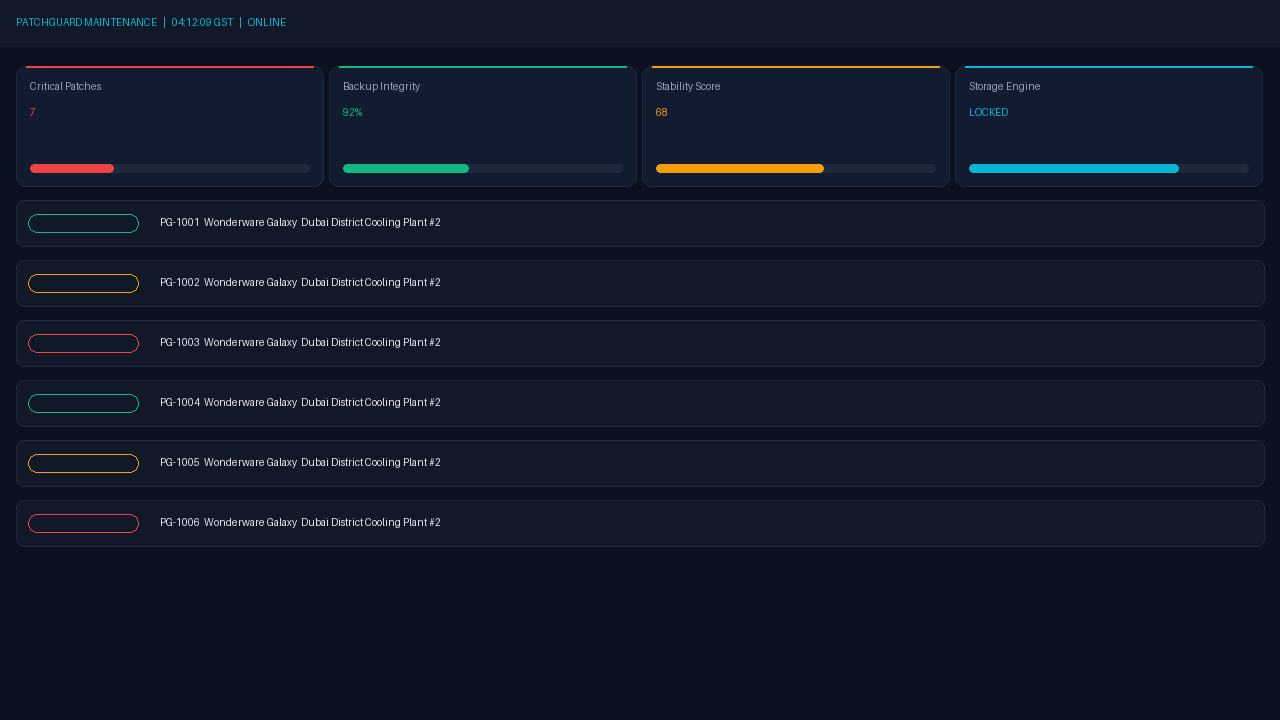
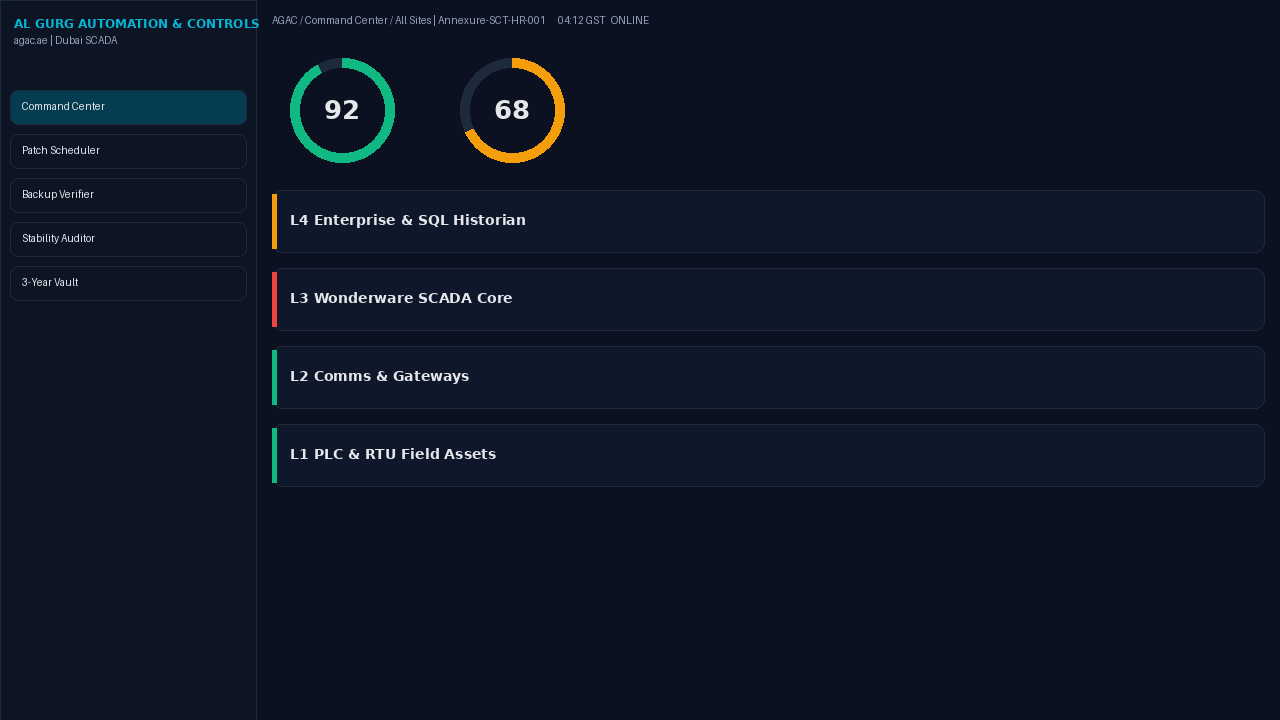
Add files via upload

diff --git a/js/app.js b/js/app.js
@@ -1,11 +1,14 @@
 const $=s=>document.querySelector(s),E=s=>String(s??'').replace(/[&<>"]/g,c=>({'&':'&amp;','<':'&lt;','>':'&gt;','"':'&quot;'}[c]));
-const TABS=[['dash','Dashboard'],['patches','Patch Scheduler'],['backups','Backup Verifier'],['audits','Stability Auditor'],['vault','Vault & Reports']];
+const TABS=[['dash','Command Center & Topology','M3 3h8v8H3zM13 3h8v5h-8zM13 11h8v10h-8zM3 13h8v8H3z'],['patches','Patch & Upgrade Scheduler','M12 2l9 4v6c0 5-4 8-9 10-5-2-9-5-9-10V6z'],['backups','Cryptographic Backup Verifier','M4 4h16v6H4zM4 14h16v6H4zM8 7h.01M8 17h.01'],['audits','SCADA, SQL & Comms Auditor','M3 12h4l3-8 4 16 3-8h4'],['vault','3-Year Vault & QHSE Reports','M5 11h14v10H5zM8 11V7a4 4 0 018 0v4']];
 const CATS=['Wonderware Galaxy','InTouch HMI','AVEVA Historian','MS SQL Server','Windows Server OS','OPC & Modbus Comms','PLC Firmware'],STAT=['Scheduled','In Progress','Completed','Rolled Back'],SEV=['Critical CVE','High','Routine Maintenance','Feature Upgrade'];
 const CHK=['Full Galaxy (.cab) & SQL (.bak) backup verified','Redundant AppEngine / Partner node failover tested','OPC/Modbus watchdog bypass notified to Control Room','Rollback media staged on Engineering Workstation','QHSE Annexure-SCT-HR-001 Risk Assessment & Client Sign-off obtained'];
 let tab=location.hash.slice(1)||'dash',F={q:'',c:'',s:'',v:''},dp;
 const today=()=>new Date().toISOString().slice(0,10),now=()=>new Date().toISOString();
 const toast=m=>{const t=$('#toast');t.textContent=m;t.style.display='block';setTimeout(()=>t.style.display='none',2500)};
-const cls=v=>/MISMATCH|CRITICAL|Rolled|Failed|Critical|Rejected/.test(v)?'cr':/OPTIMAL|Completed|Passed|Approved|MATCH|LOCKED/.test(v)&&!/UNLOCKED/.test(v)?'ok':/WARNING|Progress|Pending|Not|UNLOCKED/.test(v)?'wa':'in';
+const CR=['MISMATCH','Failed','CRITICAL','Critical CVE','Rolled Back','Rejected'],OK=['MATCH','OPTIMAL','Completed','Passed','Approved','LOCKED'],WA=['Pending','In Progress','WARNING','UNLOCKED','Not Tested'];
+const cls=v=>CR.includes(v)?'cr':OK.includes(v)?'ok':WA.includes(v)?'wa':'in';
+let SITE='';const siteOk=s=>!SITE||s==SITE,LAY={L4:['Enterprise & SQL Historian',['AVEVA Historian','MS SQL Server'],'Historian SQL 2019 CU22 | TempDB & Store-and-Forward Queue'],L3:['Wonderware SCADA Core',['Wonderware Galaxy','InTouch HMI'],'Galaxy GR Node | Redundant AppEngine Pair | InTouch Terminal Server'],L2:['Industrial Comms & Gateways',['OPC & Modbus Comms','Windows Server OS'],'OI Server / OPC DA-UA | Modbus TCP Driver | DCOM & Firewall DMZ'],L1:['PLC & RTU Field Assets',['PLC Firmware'],'Siemens S7-1500 | Allen-Bradley ControlLogix | IEC 61850 IEDs']};
+const donut=(p,c,l)=>`<svg viewBox="0 0 80 80" width="96" height="96"><circle cx="40" cy="40" r="32" fill="none" stroke="#1e293b" stroke-width="8"/><circle class="${c}" cx="40" cy="40" r="32" fill="none" stroke-width="8" stroke-linecap="round" stroke-dasharray="${2.0106*p} 201" transform="rotate(-90 40 40)"/><text x="40" y="45" text-anchor="middle" fill="#e5e7eb" font-family="monospace" font-size="16" font-weight="700">${p}</text></svg><span class="lb">${l}</span>`;
 const meter=(p,c)=>`<i class="m"><u class="${c}" style="width:${Math.min(100,p)}%"></u></i>`,lv=p=>p>85?'cr':p>=70?'wa':'ok',gate=p=>{const n=(p.preCheckItems||[]).filter(Boolean).length;return`<span class="b ${n==5?'ok':n>=3?'wa':'cr'}">${n}/5 Gates${n==5?' Passed':''}</span>`};
 const bd=v=>`<span class="b ${cls(v)}">${E(v)}</span>`;
 function dl(name,text,type){const a=document.createElement('a');a.href=URL.createObjectURL(new Blob([text],{type}));a.download=name;a.click()}
@@ -15,8 +18,12 @@ m.innerHTML=`<form><h3>${title}</h3>${fields.map(([n,l,t,o])=>`<label>${l}</labe
 document.body.append(m);m.querySelector('#cx').onclick=()=>m.remove();
 m.querySelector('form').onsubmit=async e=>{e.preventDefault();const f=e.target,o={};fields.forEach(([n,,t])=>{const x=f.elements[n];o[n]=t=='check'?x.checked:t=='number'?+x.value:x.value});o._chk=[...f.querySelectorAll('.pc')].map(x=>x.checked);await save(o);m.remove();render()}}
 const sel=(id,arr,v,l)=>`<select id="${id}"><option value="">${l}</option>${arr.map(x=>`<option ${v==x?'selected':''}>${x}</option>`).join('')}</select>`;
-async function render(){location.hash=tab;$('#nav').innerHTML=TABS.map(([k,l])=>`<button class="${k==tab?'on':''}" data-t="${k}">${l}</button>`).join('');
-$('#nav').onclick=e=>{if(e.target.dataset.t){tab=e.target.dataset.t;render()}};await VIEWS[tab]($('#main'))}
+async function render(){location.hash=tab;const P=await PG.all('patch_schedules'),B=await PG.all('backup_verifications'),A=await PG.all('stability_audits'),q=await PG.quota();
+const pend=P.filter(p=>['Scheduled','In Progress'].includes(p.status)).length,bad=B.filter(b=>!b.hashMatch).length,wh=A.some(x=>x.overallHealth=='CRITICAL')?'CRITICAL':A.some(x=>x.overallHealth=='WARNING')?'WARNING':'OPTIMAL';
+const bg={patches:pend,backups:bad?bad+' !':'OK',audits:wh,vault:q.persisted?'LOCKED':'OPEN'};
+$('#nav').innerHTML=TABS.map(([k,l,i])=>`<button class="${k==tab?'on':''}" data-t="${k}"><svg viewBox="0 0 24 24" width="18" height="18" fill="none" stroke="currentColor" stroke-width="2"><path d="${i}"/></svg><span>${l}</span>${bg[k]!==undefined?`<em class="${k=='backups'&&bad||wh=='CRITICAL'&&k=='audits'?'cr':'in'}">${bg[k]}</em>`:''}</button>`).join('');
+$('#crumb').textContent='AGAC / '+TABS.find(t=>t[0]==tab)[1]+' / '+(SITE||'All Sites')+'  | Annexure-SCT-HR-001';
+$('#nav').onclick=e=>{const b=e.target.closest('button');if(b){tab=b.dataset.t;render()}};await VIEWS[tab]($('#main'))}
 const VIEWS={
 async dash(el){const P=await PG.all('patch_schedules'),B=await PG.all('backup_verifications'),A=await PG.all('stability_audits'),q=await PG.quota();
 const crit=P.filter(p=>['Critical CVE','High'].includes(p.cveSeverity)&&['Scheduled','In Progress'].includes(p.status)).length;
@@ -24,26 +31,27 @@ const rec=B.filter(b=>(new Date()-new Date(b.verifiedDate))<2592e6),rate=rec.len
 const sc=A.length?Math.round(A.map(a=>({OPTIMAL:100,WARNING:60,CRITICAL:20}[a.overallHealth])).reduce((a,b)=>a+b)/A.length):0;
 const up=P.filter(p=>p.status=='Scheduled'&&(new Date(p.scheduledDate)-new Date())<2592e6&&new Date(p.scheduledDate)>=new Date(today())).sort((a,b)=>a.scheduledDate>b.scheduledDate?1:-1);
 el.innerHTML=`<div class="bar"><button class="p" data-a="p">+ Schedule Patch Window</button><button data-a="b">+ Verify Backup Checksum</button><button data-a="a">+ Run Routine Health Audit</button><button data-a="r">Generate QHSE Compliance Report</button></div>
-<div class="grid"><div class="card kpi">Pending Critical/High Patches<b class="cr">${crit}</b></div><div class="card kpi">Backup Integrity (30d)<b class="${rate>=80?'ok':'wa'}">${rate}%</b></div><div class="card kpi">SCADA Stability Score<b class="${sc>=80?'ok':sc>=50?'wa':'cr'}">${sc}</b></div><div class="card kpi">Storage Engine<b class="${q.persisted?'ok':'wa'}">${q.persisted?'LOCKED':'UNLOCKED'}</b>~${q.years3.toLocaleString()} records runway</div></div>
+<div class="grid"><div class="card kpi ring">${donut(rate,rate>=80?'ok':'wa','Backup Integrity (30d %)')}</div><div class="card kpi ring">${donut(sc,sc>=80?'ok':sc>=50?'wa':'cr','SCADA Stability Score')}</div><div class="card kpi"><span class="lb">Pending Critical / High Patches</span><b class="cr">${crit}</b>${meter(crit*10,'cr')}</div><div class="card kpi"><span class="lb">Storage Engine</span><b class="${q.persisted?'ok':'wa'}">${q.persisted?'LOCKED':'UNLOCKED'}</b>${meter(Math.max(q.pct,1),'in')}<span class="lb">~${q.years3.toLocaleString()} records runway</span></div></div>
+<div class="card"><h3>AGAC SCADA Architecture & Node Health - click a layer to filter patches</h3><div class="topo">${Object.entries(LAY).map(([k,l])=>{const n=P.filter(p=>l[1].includes(p.assetType)&&siteOk(p.siteName)&&['Critical CVE','High'].includes(p.cveSeverity)&&['Scheduled','In Progress'].includes(p.status)).length;return`<div class="lay ${n>1?'cr':n?'wa':'ok'}" data-l="${k}"><b>${k} - ${l[0]}</b><span class="lb">${l[2]}</span>${bd(n>1?'CRITICAL':n?'WARNING':'OPTIMAL')} <span class="lb">${n} pending critical/high</span></div>`}).join('')}</div></div>
 <div class="card"><h3>Upcoming Windows (30 days)</h3>${up.map(p=>{const d=Math.ceil((new Date(p.scheduledDate)-new Date(today()))/864e5);return`<p>${bd('T-'+d+'d')} <b>${E(p.ticketRef)}</b> ${E(p.siteName)} - ${E(p.targetSystem)} (${p.scheduledDate}) PTW: ${bd(p.qhsePermit)}</p>`}).join('')||'<p>No windows in next 30 days.</p>'}</div>`;
-el.onclick=e=>{const a=e.target.dataset.a;if(a=='p')patchForm();if(a=='b'){tab='backups';render()}if(a=='a')auditForm();if(a=='r')printReport()}},
-async patches(el){const P=(await PG.all('patch_schedules')).sort((a,b)=>a.scheduledDate<b.scheduledDate?1:-1).filter(p=>(!F.c||p.assetType==F.c)&&(!F.s||p.status==F.s)&&(!F.v||p.cveSeverity==F.v)&&JSON.stringify(p).toLowerCase().includes(F.q.toLowerCase()));
-el.innerHTML=`<div class="bar"><input id="q" placeholder="Search..." value="${E(F.q)}">${sel('fc',CATS,F.c,'All assets')}${sel('fs',STAT,F.s,'All status')}${sel('fv',SEV,F.v,'All severity')}<button class="p" id="add">+ New Patch</button></div><div class="tw"><table><tr><th>Ticket</th><th>Site</th><th>System</th><th>Version</th><th>Severity</th><th>Date</th><th>Status</th><th>PTW</th><th>Gates</th><th></th></tr>${P.map(p=>`<tr><td>${E(p.ticketRef)}</td><td>${E(p.siteName)}</td><td>${E(p.targetSystem)}</td><td class="mono">${E(p.currentVersion)}&rarr;${E(p.targetVersion)}</td><td>${bd(p.cveSeverity)}</td><td>${p.scheduledDate}</td><td>${bd(p.status)}</td><td>${bd(p.qhsePermit)}</td><td>${gate(p)}</td><td class="act"><button data-n="${p.id}">Advance</button> ${p.status=='In Progress'?`<button class="d" data-rb="${p.id}">Rollback</button>`:''} <button data-e="${p.id}">Edit</button> <button class="d" data-d="${p.id}">Del</button></td></tr>`).join('')}</table></div>`;
-$('#q').oninput=e=>{F.q=e.target.value;render().then(()=>{const i=$('#q');i.focus();i.setSelectionRange(99,99)})};$('#fc').onchange=e=>{F.c=e.target.value;render()};$('#fs').onchange=e=>{F.s=e.target.value;render()};$('#fv').onchange=e=>{F.v=e.target.value;render()};$('#add').onclick=()=>patchForm();
+el.onclick=e=>{const ly=e.target.closest('[data-l]');if(ly){F.layer=ly.dataset.l;tab='patches';return render()}const a=e.target.dataset.a;if(a=='p')patchForm();if(a=='b'){tab='backups';render()}if(a=='a')auditForm();if(a=='r')printReport()}},
+async patches(el){const P=(await PG.all('patch_schedules')).sort((a,b)=>a.scheduledDate<b.scheduledDate?1:-1).filter(p=>siteOk(p.siteName)&&(!F.layer||LAY[F.layer][1].includes(p.assetType))&&(!F.c||p.assetType==F.c)&&(!F.s||p.status==F.s)&&(!F.v||p.cveSeverity==F.v)&&JSON.stringify(p).toLowerCase().includes(F.q.toLowerCase()));
+el.innerHTML=`<div class="bar"><input id="q" placeholder="Search..." value="${E(F.q)}">${sel('fc',CATS,F.c,'All assets')}${sel('fs',STAT,F.s,'All status')}${sel('fv',SEV,F.v,'All severity')}<button class="p" id="add">+ New Patch</button>${F.layer?`<button id="cl">Layer ${F.layer} &#10005;</button>`:''}</div><div class="tw"><table><tr><th>Ticket</th><th>Site</th><th>System</th><th>Version</th><th>Severity</th><th>Date</th><th>Status</th><th>PTW</th><th>Gates</th><th></th></tr>${P.map(p=>`<tr><td>${E(p.ticketRef)}</td><td>${E(p.siteName)}</td><td>${E(p.targetSystem)}</td><td class="mono">${E(p.currentVersion)}&rarr;${E(p.targetVersion)}</td><td>${bd(p.cveSeverity)}</td><td>${p.scheduledDate}</td><td>${bd(p.status)}</td><td>${bd(p.qhsePermit)}</td><td>${gate(p)}</td><td class="act"><button data-n="${p.id}">Advance</button> ${p.status=='In Progress'?`<button class="d" data-rb="${p.id}">Rollback</button>`:''} <button data-e="${p.id}">Edit</button> <button class="d" data-d="${p.id}">Del</button></td></tr>`).join('')}</table></div>`;
+$('#q').oninput=e=>{F.q=e.target.value;render().then(()=>{const i=$('#q');i.focus();i.setSelectionRange(99,99)})};$('#fc').onchange=e=>{F.c=e.target.value;render()};$('#fs').onchange=e=>{F.s=e.target.value;render()};$('#fv').onchange=e=>{F.v=e.target.value;render()};$('#add').onclick=()=>patchForm();if($('#cl'))$('#cl').onclick=()=>{F.layer='';render()};
 el.onclick=async e=>{const d=e.target.dataset,all=await PG.all('patch_schedules'),g=i=>all.find(x=>x.id==i);
 if(d.e)patchForm(g(d.e));if(d.d&&confirm('Delete?')){await PG.del('patch_schedules',d.d);render()}
 if(d.n){const p=g(d.n);if(p.status=='Scheduled'){if(p.preCheckItems.filter(Boolean).length<5&&!confirm('Safety gate checklist incomplete. Proceed anyway?'))return;p.status='In Progress';p.startedAt=now()}else if(p.status=='In Progress'){p.status='Completed';p.completedAt=now()}else return;p.updatedAt=now();await PG.put('patch_schedules',p);toast('Status: '+p.status);render()}
 if(d.rb){const p=g(d.rb);p.status='Rolled Back';p.rolledBackAt=now();p.updatedAt=now();await PG.put('patch_schedules',p);render()}}},
-async backups(el){const B=(await PG.all('backup_verifications')).sort((a,b)=>a.verifiedDate<b.verifiedDate?1:-1);
-el.innerHTML=`<div class="card"><h3>Local SHA-256 Calculator (processed in-browser, nothing uploaded)</h3><div class="drop" id="drop"><div>&#8682; Drag & drop backup file here</div><label class="fb">Browse Files<input type="file" id="fi" hidden></label></div><label>Expected baseline SHA-256</label><input id="exp" style="width:100%" class="mono"><div id="res" class="mono"></div></div><div class="bar"><button class="p" id="add">+ Log Backup Verification</button></div><div class="tw"><table><tr><th>Ref</th><th>Site</th><th>Type</th><th>File</th><th>Hash</th><th>Test Restore</th><th>RTO</th><th>Date</th><th>Expires</th><th></th></tr>${B.map(b=>`<tr><td>${E(b.backupRef)}</td><td>${E(b.siteName)}</td><td>${E(b.artifactType)}</td><td>${E(b.fileName)}</td><td>${bd(b.hashMatch?'MATCH':'MISMATCH')}</td><td>${bd(b.testRestoreStatus)}</td><td>${b.rtoMinutes}m</td><td>${b.verifiedDate}</td><td>${b.retentionExpiryDate}</td><td><button class="d" data-d="${b.id}">Del</button></td></tr>`).join('')}</table></div>`;
+async backups(el){const B=(await PG.all('backup_verifications')).filter(x=>siteOk(x.siteName)).sort((a,b)=>a.verifiedDate<b.verifiedDate?1:-1);
+el.innerHTML=`<div class="card"><h3>Local SHA-256 Calculator (processed in-browser, nothing uploaded)</h3><div class="drop" id="drop"><div>&#8682; Drop Wonderware .cab, .aaPKG, SQL .bak, or PLC .zap16/.ACD file here</div><label class="fb">Select Local Artifact for SHA-256 Verification<input type="file" id="fi" hidden></label> <button id="smp" class="sm">Generate Sample .cab Test Artifact</button></div><div class="bar"><button class="p" id="add">+ Log Backup Verification</button></div><div class="tw"><table><tr><th>Ref</th><th>Site</th><th>Type</th><th>File</th><th>Hash</th><th>Test Restore</th><th>RTO</th><th>Date</th><th>Expires</th><th></th></tr>${B.map(b=>`<tr><td>${E(b.backupRef)}</td><td>${E(b.siteName)}</td><td>${E(b.artifactType)}</td><td>${E(b.fileName)}</td><td>${bd(b.hashMatch?'MATCH':'MISMATCH')}</td><td>${bd(b.testRestoreStatus)}</td><td>${b.rtoMinutes}m</td><td>${b.verifiedDate}</td><td>${b.retentionExpiryDate}</td><td><button class="d" data-d="${b.id}">Del</button></td></tr>`).join('')}</table></div>`;
 async function hashFile(f){$('#res').textContent='Hashing '+f.name+'...';const h=await PG.sha256(await f.arrayBuffer()),x=$('#exp').value.trim().toLowerCase(),m=x?h==x:null;window._last={f,h,m};$('#res').innerHTML=`${E(f.name)} | ${(f.size/1048576).toFixed(2)} MB | ${new Date(f.lastModified).toISOString()}<br>SHA-256: ${h}<br>${m===null?'Enter a baseline to compare.':m?'<b class="ok">MATCH VERIFIED</b>':'<b class="cr">CORRUPTION / MISMATCH DETECTED</b>'}<br><button id="lg">Log this result</button>`;$('#lg').onclick=()=>backupForm(window._last)}
-$('#fi').onchange=e=>e.target.files[0]&&hashFile(e.target.files[0]);const dr=$('#drop');dr.ondragover=e=>e.preventDefault();dr.ondrop=e=>{e.preventDefault();hashFile(e.dataTransfer.files[0])};
+$('#smp').onclick=async()=>{const by=new Uint8Array(262144);for(let i=0;i<by.length;i++)by[i]=(i*31+7)%251;const f=new File([by],'SAMPLE_Galaxy.cab');$('#exp').value=await PG.sha256(by.buffer);hashFile(f)};$('#fi').onchange=e=>e.target.files[0]&&hashFile(e.target.files[0]);const dr=$('#drop');dr.ondragover=e=>e.preventDefault();dr.ondrop=e=>{e.preventDefault();hashFile(e.dataTransfer.files[0])};
 $('#add').onclick=()=>backupForm();el.onclick=async e=>{if(e.target.dataset.d){await PG.del('backup_verifications',e.target.dataset.d);render()}}},
-async audits(el){const A=(await PG.all('stability_audits')).sort((a,b)=>a.auditDate<b.auditDate?1:-1);
+async audits(el){const A=(await PG.all('stability_audits')).filter(x=>siteOk(x.siteName)).sort((a,b)=>a.auditDate<b.auditDate?1:-1);
 el.innerHTML=`<div class="bar"><button class="p" id="add">+ Run Routine Health Audit</button></div><div class="tw"><table><tr><th>Ref</th><th>Site</th><th>Date</th><th>CPU/RAM</th><th>TempDB GB</th><th>SaF Queue</th><th>DCOM</th><th>FW</th><th>Health</th><th>Corrective Actions</th><th></th></tr>${A.map(a=>`<tr><td>${E(a.auditRef)}</td><td>${E(a.siteName)}</td><td>${a.auditDate}</td><td>CPU ${a.cpuLoadPct}%${meter(a.cpuLoadPct,lv(a.cpuLoadPct))}RAM ${a.ramUsagePct}%${meter(a.ramUsagePct,lv(a.ramUsagePct))}</td><td>${a.sqlTempDbFreeGB}</td><td>${a.historianQueueCount}</td><td>${a.dcomSecurityOk?'&#10003;':'&#10007;'}</td><td>${a.firewallRulesVerified?'&#10003;':'&#10007;'}</td><td>${bd(a.overallHealth)}</td><td>${(a.correctiveActions||'').split('; ').filter(Boolean).map(t=>`<span class="b in">${E(t)}</span>`).join(' ')||'<span class="b ok">None</span>'}</td><td><button class="d" data-d="${a.id}">Del</button></td></tr>`).join('')}</table></div>`;
 $('#add').onclick=()=>auditForm();el.onclick=async e=>{if(e.target.dataset.d){await PG.del('stability_audits',e.target.dataset.d);render()}}},
 async vault(el){const q=await PG.quota(),cnt={};for(const s in STORES)cnt[s]=(await PG.all(s)).length;const AR=await PG.all('cold_archives');
-el.innerHTML=`<div class="grid"><div class="card kpi"><span class="lb">Storage Used</span><b>${q.used.toFixed(2)} MB</b>${meter(Math.max(q.pct,1),'in')}<span class="lb">Used ${q.used.toFixed(2)} MB of ${q.avail.toFixed(1)} GB (${q.pct.toFixed(4)}%)</span></div><div class="card kpi"><span class="lb">Persistence Lock</span>${bd(q.persisted?'LOCKED':'UNLOCKED')}<br><button id="pst">Activate Persistent Storage</button></div><div class="card kpi"><span class="lb">3-Yr Capacity</span><b>~${q.years3.toLocaleString()}</b><span class="lb">est. records</span></div></div>
+el.innerHTML=`<div class="grid"><div class="card kpi"><span class="lb">Storage Used</span><b>${q.used.toFixed(2)} MB <small>/ ${q.avail.toFixed(1)} GB (${q.pct.toFixed(3)}%)</small></b>${meter(Math.max(q.pct,1),'in')}</div><div class="card kpi"><span class="lb">Persistence Lock</span>${bd(q.persisted?'LOCKED':'UNLOCKED')}<br><button id="pst">Activate Persistent Storage</button></div><div class="card kpi"><span class="lb">3-Yr Capacity</span><b>~${q.years3.toLocaleString()}</b><span class="lb">est. records</span></div></div>
 <div class="card"><h3>Records</h3>${Object.entries(cnt).map(([k,v])=>`<span class="b in">${k}: ${v}</span> `).join('')}</div>
 <div class="card"><h3>Cold Archive</h3><div class="bar"><input id="fy" type="number" value="${new Date().getFullYear()-1}" style="width:100px"><button id="arc">Archive Fiscal Year</button></div>${AR.map(a=>`<p>FY${a.fiscalYear} - ${a.recordCount} records - saved ${Math.round((1-a.compressedPayloadJson.length*.75/a.rawBytes)*100)}% (${a.rawBytes}B&rarr;${Math.round(a.compressedPayloadJson.length*.75)}B) - <span class="mono">${a.checksum.slice(0,16)}...</span> <button data-r="${a.id}">Restore</button></p>`).join('')}</div>
 <div class="card"><h3>Backup & Restore</h3><div class="bar"><button id="ej">Export JSON</button><label class="fb">Import JSON<input type="file" id="ij" accept=".json" hidden></label><select id="im"><option value="m">Merge</option><option value="o">Overwrite</option></select><button id="e1">patch_schedules.csv</button><button id="e2">backup_verifications.csv</button><button id="e3">stability_audits.csv</button><button class="d" id="rs">Reset to Demo</button></div></div><button class="p" id="rp">Print QHSE Report</button>`;
@@ -60,9 +68,10 @@ function backupForm(l){const r={backupRef:'BK-'+Math.floor(Math.random()*9000+10
 form('Log Backup Verification',[['backupRef','Ref'],['siteName','Site'],['artifactType','Artifact','select',['Galaxy Repository (.cab)','InTouch Package (.aaPKG)','SQL Server / Historian (.bak)','Driver Config (.xml/.cfg)','PLC Logic (.zap16/.ACD)']],['fileName','File'],['fileSizeMB','Size MB','number'],['storageLocation','Storage'],['sha256Expected','Expected SHA-256'],['sha256Calculated','Calculated SHA-256'],['testRestoreStatus','Test Restore','select',['Not Tested','Passed','Failed']],['rtoMinutes','RTO (min)','number'],['verifiedBy','Verified by'],['verifiedDate','Date','date'],['notes','Notes','area']],r,async o=>{delete o._chk;const d=new Date(o.verifiedDate);d.setDate(d.getDate()+365);await PG.put('backup_verifications',{...o,id:PG.uid(),hashMatch:!!o.sha256Expected&&o.sha256Expected.toLowerCase()==o.sha256Calculated.toLowerCase(),retentionExpiryDate:d.toISOString().slice(0,10),fiscalYear:PG.fy(o.verifiedDate)})})}
 function auditForm(){const r={auditRef:'AU-'+Math.floor(Math.random()*9000+1000),auditDate:today(),frequency:'Monthly',cpuLoadPct:30,ramUsagePct:50,sqlTempDbFreeGB:20,historianQueueCount:0,opcChannelStatus:'Good',dcomSecurityOk:true,firewallRulesVerified:true,sqlIndexDefragOk:true,annexureCompliant:true};
 form('Routine Health Audit',[['auditRef','Ref'],['siteName','Site'],['auditDate','Date','date'],['frequency','Frequency','select',['Weekly','Monthly','Quarterly']],['cpuLoadPct','CPU %','number'],['ramUsagePct','RAM %','number'],['sqlTempDbFreeGB','TempDB free GB','number'],['historianQueueCount','Historian SaF queue','number'],['opcChannelStatus','OPC channel','select',['Good','Degraded','Bad']],['dcomSecurityOk','OPC DCOM hardened','check'],['firewallRulesVerified','Firewall/DMZ rules verified','check'],['sqlIndexDefragOk','SQL index defrag OK','check'],['annexureCompliant','Annexure-SCT-HR-001 compliant','check'],['findings','Findings','area']],r,async o=>{delete o._chk;const h=PG.grade(o),ca=PG.actions(o);await PG.put('stability_audits',{...o,id:PG.uid(),overallHealth:h,correctiveActions:ca.join('; '),fiscalYear:PG.fy(o.auditDate)});toast('Health: '+h)})}
-async function printReport(){const P=await PG.all('patch_schedules'),B=await PG.all('backup_verifications');$('#report').innerHTML=`<h1 style="color:#000">Maintenance Compliance Certificate</h1><h3>Al Gurg Automation and Controls - Dubai, U.A.E.</h3><p>Generated ${now()}. Annexure-SCT-HR-001 (QHSE) compliance affirmed for the activities below.</p><h4>Patch Execution Summary</h4><table><tr><th>Ticket</th><th>Site</th><th>System</th><th>Version</th><th>Date</th><th>Status</th></tr>${P.map(p=>`<tr><td>${E(p.ticketRef)}</td><td>${E(p.siteName)}</td><td>${E(p.targetSystem)}</td><td>${E(p.currentVersion)}&rarr;${E(p.targetVersion)}</td><td>${p.scheduledDate}</td><td>${p.status}</td></tr>`).join('')}</table><h4>Verified Backup Ledger</h4><table><tr><th>Ref</th><th>File</th><th>Hash</th><th>Restore</th><th>Date</th></tr>${B.map(b=>`<tr><td>${E(b.backupRef)}</td><td>${E(b.fileName)}</td><td>${b.hashMatch?'MATCH':'MISMATCH'}</td><td>${b.testRestoreStatus}</td><td>${b.verifiedDate}</td></tr>`).join('')}</table><p><br>SCADA Engineer: ____________________ Date: ____________</p>`;setTimeout(()=>print(),100)}
-(async()=>{await PG.open();await PG.seed();PG.persist();await render();
+async function printReport(){const P=await PG.all('patch_schedules'),B=await PG.all('backup_verifications'),A=await PG.all('stability_audits'),ok=B.filter(b=>b.hashMatch&&b.testRestoreStatus=='Passed').length,T=(h,rows)=>`<table><tr>${h.map(x=>`<th>${x}</th>`).join('')}</tr>${rows.map(r=>`<tr>${r.map(x=>`<td>${E(x)}</td>`).join('')}</tr>`).join('')}</table>`;
+$('#report').innerHTML=`<h2>AL GURG AUTOMATION AND CONTROLS LLC (agac.ae) - Dubai, U.A.E.</h2><p><b>Document Ref:</b> AGAC-SCADA-PM-2026 / Annexure-SCT-HR-001 Compliance Certificate<br><b>Scope:</b> Wonderware SCADA, HMI, SQL Historian, OPC/Modbus &amp; PLC Routine Maintenance &amp; Backup Verification<br><b>Generated:</b> ${now()} (GST UTC+4)</p><p><b>Summary:</b> ${P.length} patch records (${P.filter(p=>p.status=='Completed').length} completed, ${P.filter(p=>p.status=='Rolled Back').length} rolled back); ${ok}/${B.length} backups hash-verified and test-restored; ${A.filter(a=>a.overallHealth=='OPTIMAL').length}/${A.length} audits OPTIMAL. Annexure-SCT-HR-001 QHSE compliance is affirmed for the activities recorded below.</p><h4>Patch Execution</h4>${T(['Ticket','Site','System','Version','Date','Status','Gates'],P.map(p=>[p.ticketRef,p.siteName,p.targetSystem,p.currentVersion+' > '+p.targetVersion,p.scheduledDate,p.status,(p.preCheckItems||[]).filter(Boolean).length+'/5']))}<h4>SHA-256 Verified Backup Ledger</h4>${T(['Ref','File','SHA-256','Hash','Restore','RTO','Date'],B.map(b=>[b.backupRef,b.fileName,(b.sha256Calculated||'').slice(0,16)+'...',b.hashMatch?'MATCH':'MISMATCH',b.testRestoreStatus,b.rtoMinutes+'m',b.verifiedDate]))}<h4>Stability &amp; SQL Audit Findings</h4>${T(['Ref','Site','Date','Health','Corrective Actions'],A.map(x=>[x.auditRef,x.siteName,x.auditDate,x.overallHealth,x.correctiveActions||'None']))}<br><table><tr><td>Prepared by: SCADA Engineer<br><br>______________</td><td>Reviewed by: Lead Control Systems Engineer<br><br>______________</td><td>Approved by: AGAC Project Manager / QHSE Officer<br><br>______________</td></tr></table>`;setTimeout(()=>print(),100)}
+(async()=>{await PG.open();try{if(!localStorage.getItem('agac_pg_schema_v3')){await PG.seed(true);localStorage.setItem('agac_pg_schema_v3','1')}else await PG.seed()}catch(e){await PG.seed()}$('#site').onchange=e=>{SITE=e.target.value;render()};PG.persist();await render();
 addEventListener('online',()=>{$('#net').textContent='ONLINE';$('#net').className='b ok'});addEventListener('offline',()=>{$('#net').textContent='OFFLINE';$('#net').className='b wa'});
 addEventListener('beforeinstallprompt',e=>{e.preventDefault();dp=e;$('#install').style.display='inline-block'});$('#install').onclick=async()=>{dp&&dp.prompt();dp=null;$('#install').style.display='none'};
 const clk=()=>$('#clk').textContent=new Date().toLocaleTimeString('en-GB',{timeZone:'Asia/Dubai'})+' GST';clk();setInterval(clk,1000);
-if('serviceWorker'in navigator)navigator.serviceWorker.register('sw.js').catch(()=>{})})();
+if('serviceWorker'in navigator){const had=!!navigator.serviceWorker.controller;navigator.serviceWorker.addEventListener('controllerchange',()=>{if(had&&!window._rl){window._rl=1;location.reload()}});navigator.serviceWorker.register('sw.js').catch(()=>{})}})();

diff --git a/index.html b/index.html
@@ -1,7 +1,9 @@
-<!doctype html><html lang="en"><head><meta charset="utf-8"><meta name="viewport" content="width=device-width,initial-scale=1,viewport-fit=cover"><title>PatchGuard Maintenance</title>
+<!doctype html><html lang="en"><head><meta charset="utf-8"><meta name="viewport" content="width=device-width,initial-scale=1,viewport-fit=cover"><title>AGAC PatchGuard - SCADA Maintenance</title>
+<script>try{if(!localStorage.getItem('agac_sw_v3_flushed')){localStorage.setItem('agac_sw_v3_flushed','1');Promise.all([navigator.serviceWorker?navigator.serviceWorker.getRegistrations().then(r=>Promise.all(r.map(x=>x.unregister()))):0,window.caches?caches.keys().then(k=>Promise.all(k.map(x=>caches.delete(x)))):0]).then(()=>location.reload())}}catch(e){}</script>
 <link rel="manifest" href="manifest.webmanifest"><meta name="theme-color" content="#0b1120"><link rel="icon" href="favicon.svg" type="image/svg+xml"><link rel="icon" href="favicon.ico"><link rel="apple-touch-icon" href="apple-touch-icon.png">
 <meta name="apple-mobile-web-app-capable" content="yes"><meta name="mobile-web-app-capable" content="yes"><meta name="apple-mobile-web-app-title" content="PatchGuard"><meta name="apple-mobile-web-app-status-bar-style" content="black-translucent"><meta name="msapplication-TileColor" content="#0b1120">
 <link rel="stylesheet" href="css/styles.css"></head><body>
-<header><h1>&#9919; PATCHGUARD MAINTENANCE</h1><span class="hb"><span class="pulse"></span><span id="clk" class="mono"></span> <span id="net" class="b ok">ONLINE</span> <button id="install" class="p">Install App</button></span></header>
-<nav id="nav"></nav><main id="main"></main><div id="report"></div><div id="toast"></div>
-<script src="js/db.js"></script><script src="js/app.js"></script></body></html>
+<div id="shell"><aside id="side"><div class="brand"><svg viewBox="0 0 64 64" width="44" height="44"><path d="M32 4l24 14v28L32 60 8 46V18z" fill="#111827" stroke="#06b6d4" stroke-width="3"/><text x="32" y="38" text-anchor="middle" fill="#10b981" font-family="monospace" font-weight="700" font-size="18">AG</text></svg><div><b>AL GURG AUTOMATION &amp; CONTROLS</b><span>agac.ae | Easa Saleh Al Gurg Group - Industrial Automation &amp; SCADA Division, Dubai, U.A.E.</span></div></div>
+<div class="duty"><span class="lb">Role</span>SCADA Engineer - Dubai Operations<span class="lb">Compliance</span><span class="ok">&#10003; QHSE Annexure-SCT-HR-001 Verified</span><span class="lb">Active Platforms</span>AVEVA / Wonderware System Platform 2023 R2 | InTouch HMI | Historian SQL | OPC UA/DA &amp; Modbus TCP</div><div id="nav"></div></aside>
+<div id="wrap"><div id="top"><span id="crumb" class="mono"></span><select id="site"><option value="">All AGAC Dubai Sites</option><option>Dubai District Cooling Plant #2</option><option>Jebel Ali Water Pumping Station</option><option>Al Quoz Substation</option><option>DEWA 132kV Interface Node</option></select><span class="hb"><span class="b in">Duty Shift: ACTIVE</span><span class="pulse"></span><span id="clk" class="mono"></span><span id="net" class="b ok">ONLINE</span><button id="install" class="p">Install App</button></span></div><main id="main"></main></div></div>
+<div id="report"></div><div id="toast"></div><script src="js/db.js"></script><script src="js/app.js"></script></body></html>

diff --git a/css/styles.css b/css/styles.css
@@ -23,3 +23,13 @@ header{position:sticky;top:0;z-index:5;backdrop-filter:blur(12px);background:#11
 .tw td,.tw th{white-space:nowrap}td.act{display:flex;gap:6px}td.act button{white-space:nowrap}
 .fb{display:inline-block;cursor:pointer;padding:8px 14px;border:1px solid #06b6d4;border-radius:6px;color:#06b6d4;margin:6px 0}.fb:hover{box-shadow:0 0 14px #06b6d466}
 .drop{background:radial-gradient(circle,#06b6d41a,transparent);box-shadow:inset 0 0 24px #06b6d422;border-radius:12px}
+body{background:#0b1120 radial-gradient(#1e293b55 1px,transparent 1px) 0 0/22px 22px;overflow:hidden}#shell{display:flex;height:100vh;width:100vw}
+#side{width:260px;flex:none;background:#0d1424ee;border-right:1px solid #1e293b;overflow:auto;padding:14px 12px}#wrap{flex:1;display:flex;flex-direction:column;min-width:0}#main{overflow:auto;flex:1;max-width:none;margin:0;width:100%}
+.brand{display:flex;gap:10px;align-items:center}.brand b{font-size:12px;color:#06b6d4;display:block}.brand span{font-size:10px;color:#94a3b8;display:block;line-height:1.3}
+.duty{margin:14px 0;padding:10px;border:1px solid #1e293b;border-radius:10px;font-size:12px;background:#11182799}.duty .lb{margin-top:6px}
+#nav button{display:flex;gap:10px;align-items:center;width:100%;text-align:left;margin:4px 0;padding:10px;border-radius:10px;background:transparent}#nav button.on{background:#06b6d41f;border-color:#06b6d4}#nav button em{margin-left:auto;font:700 11px monospace;font-style:normal}
+#top{display:flex;justify-content:space-between;align-items:center;gap:8px;flex-wrap:wrap;padding:10px 16px;background:#111827ee;backdrop-filter:blur(12px);border-bottom:1px solid #1e293b}
+.ring{text-align:center}.ring circle.ok{stroke:#10b981}.ring circle.wa{stroke:#f59e0b}.ring circle.cr{stroke:#ef4444}.kpi b small{font-size:13px;color:#94a3b8}
+.topo{display:grid;gap:10px}.lay{cursor:pointer;padding:12px;border:1px solid #1e293b;border-left:4px solid #06b6d4;border-radius:10px;background:#0f172a}.lay.ok{border-left-color:#10b981}.lay.wa{border-left-color:#f59e0b}.lay.cr{border-left-color:#ef4444;animation:bl 2s infinite}.lay:hover{background:#16213a}@keyframes bl{50%{box-shadow:0 0 14px #ef444466}}
+.b.cr{animation:bl 2s infinite}.sm{padding:6px 10px;font-size:12px}
+@media(max-width:820px){body{overflow:auto}#shell{flex-direction:column;height:auto}#side{width:auto}#nav{display:flex;overflow:auto}#nav button{white-space:nowrap}}

diff --git a/sw.js b/sw.js
@@ -1,8 +1,7 @@
-const V='pg-v2',A=['./','index.html','offline.html','manifest.webmanifest','css/styles.css','js/db.js','js/app.js','favicon.svg','icons/icon-192.png','icons/icon-512.png'];
+const V='agac-patchguard-v3',A=['./','index.html','offline.html','manifest.webmanifest','css/styles.css','js/db.js','js/app.js','favicon.svg','icons/icon-192.png','icons/icon-512.png'];
 self.addEventListener('install',e=>{e.waitUntil(caches.open(V).then(c=>c.addAll(A)));self.skipWaiting()});
-self.addEventListener('activate',e=>{e.waitUntil(caches.keys().then(k=>Promise.all(k.filter(x=>x!==V).map(x=>caches.delete(x)))));self.clients.claim()});
-self.addEventListener('fetch',e=>{const r=e.request;if(r.method!=='GET')return;
-if(r.mode==='navigate'){e.respondWith(fetch(r).then(x=>{const c=x.clone();caches.open(V).then(h=>h.put(r,c));return x}).catch(()=>caches.match(r).then(m=>m||caches.match('offline.html'))));return}
-e.respondWith(caches.match(r).then(m=>{const f=fetch(r).then(x=>{const c=x.clone();caches.open(V).then(h=>h.put(r,c));return x}).catch(()=>m);return m||f}))});
+self.addEventListener('activate',e=>{e.waitUntil((async()=>{for(const k of await caches.keys())if(k!==V)await caches.delete(k);await self.clients.claim()})())});
+self.addEventListener('fetch',e=>{const r=e.request;if(r.method!=='GET'||new URL(r.url).origin!==location.origin)return;
+e.respondWith(fetch(r).then(x=>{const c=x.clone();caches.open(V).then(h=>h.put(r,c));return x}).catch(()=>caches.match(r).then(m=>m||(r.mode==='navigate'?caches.match('offline.html'):Response.error()))))});
 self.addEventListener('sync',e=>{if(e.tag==='pg-sync')e.waitUntil(Promise.resolve())});
-self.addEventListener('push',e=>{const t=e.data?e.data.text():'Maintenance window reminder';e.waitUntil(self.registration.showNotification('PatchGuard',{body:t,icon:'icons/icon-192.png'}))});
+self.addEventListener('push',e=>{const t=e.data?e.data.text():'Maintenance window reminder';e.waitUntil(self.registration.showNotification('AGAC PatchGuard',{body:t,icon:'icons/icon-192.png'}))});

diff --git a/js/db.js b/js/db.js
@@ -1,6 +1,6 @@
 const STORES={patch_schedules:['scheduledDate','status','cveSeverity','assetType','fiscalYear'],backup_verifications:['verifiedDate','artifactType','hashMatch','testRestoreStatus','fiscalYear'],stability_audits:['auditDate','overallHealth','frequency','fiscalYear'],system_assets:['siteName','category'],cold_archives:['fiscalYear']};
 const PG={db:null,
-open(){return new Promise((ok,no)=>{const r=indexedDB.open('PatchGuardDB',1);r.onupgradeneeded=()=>{for(const[s,ix]of Object.entries(STORES)){const o=r.result.createObjectStore(s,{keyPath:'id'});ix.forEach(i=>o.createIndex(i,i))}};r.onsuccess=()=>{PG.db=r.result;ok()};r.onerror=()=>no(r.error)})},
+open(){return new Promise((ok,no)=>{const r=indexedDB.open('PatchGuardDB',3);r.onupgradeneeded=()=>{for(const[s,ix]of Object.entries(STORES)){if(!r.result.objectStoreNames.contains(s)){const o=r.result.createObjectStore(s,{keyPath:'id'});ix.forEach(i=>o.createIndex(i,i))}}};r.onsuccess=()=>{PG.db=r.result;ok()};r.onerror=()=>no(r.error)})},
 tx(s,m,f){return new Promise((ok,no)=>{const t=PG.db.transaction(s,m),q=f(t.objectStore(s));t.oncomplete=()=>ok(q&&q.result);t.onerror=()=>no(t.error)})},
 all:s=>PG.tx(s,'readonly',o=>o.getAll()),put:(s,v)=>PG.tx(s,'readwrite',o=>o.put(v)),del:(s,i)=>PG.tx(s,'readwrite',o=>o.delete(i)),clear:s=>PG.tx(s,'readwrite',o=>o.clear()),
 uid:()=>Date.now().toString(36)+Math.random().toString(36).slice(2,6),
